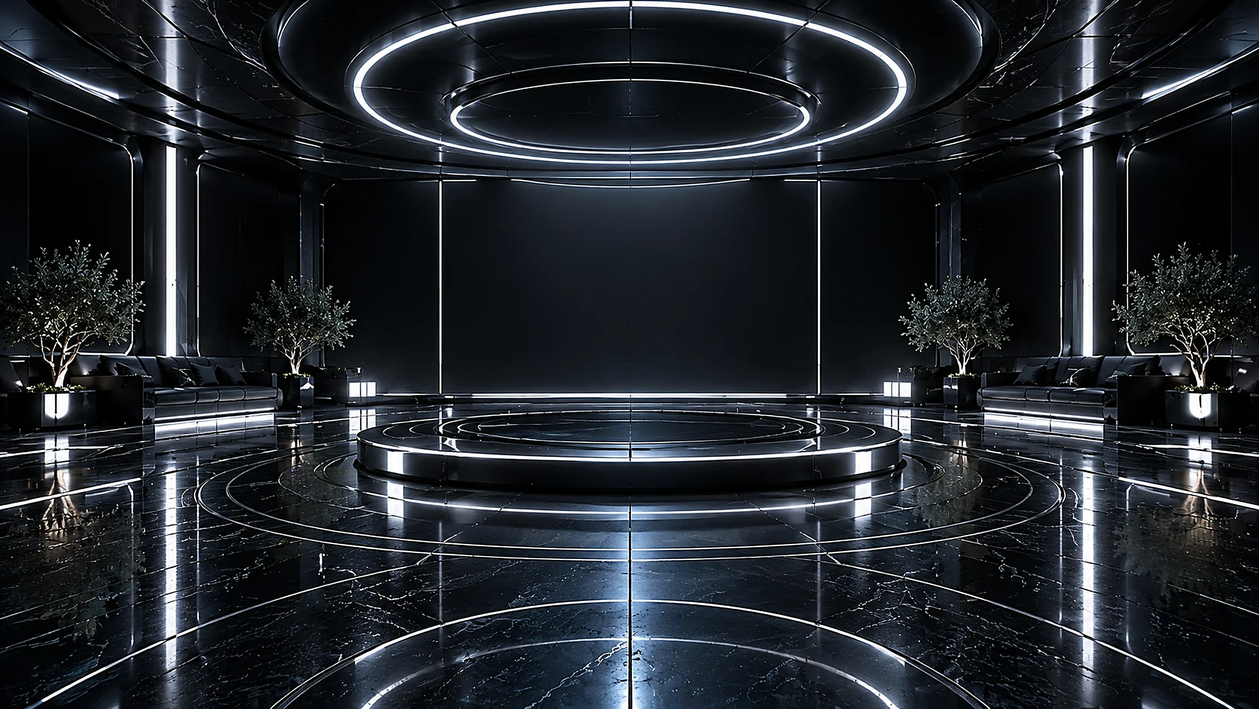
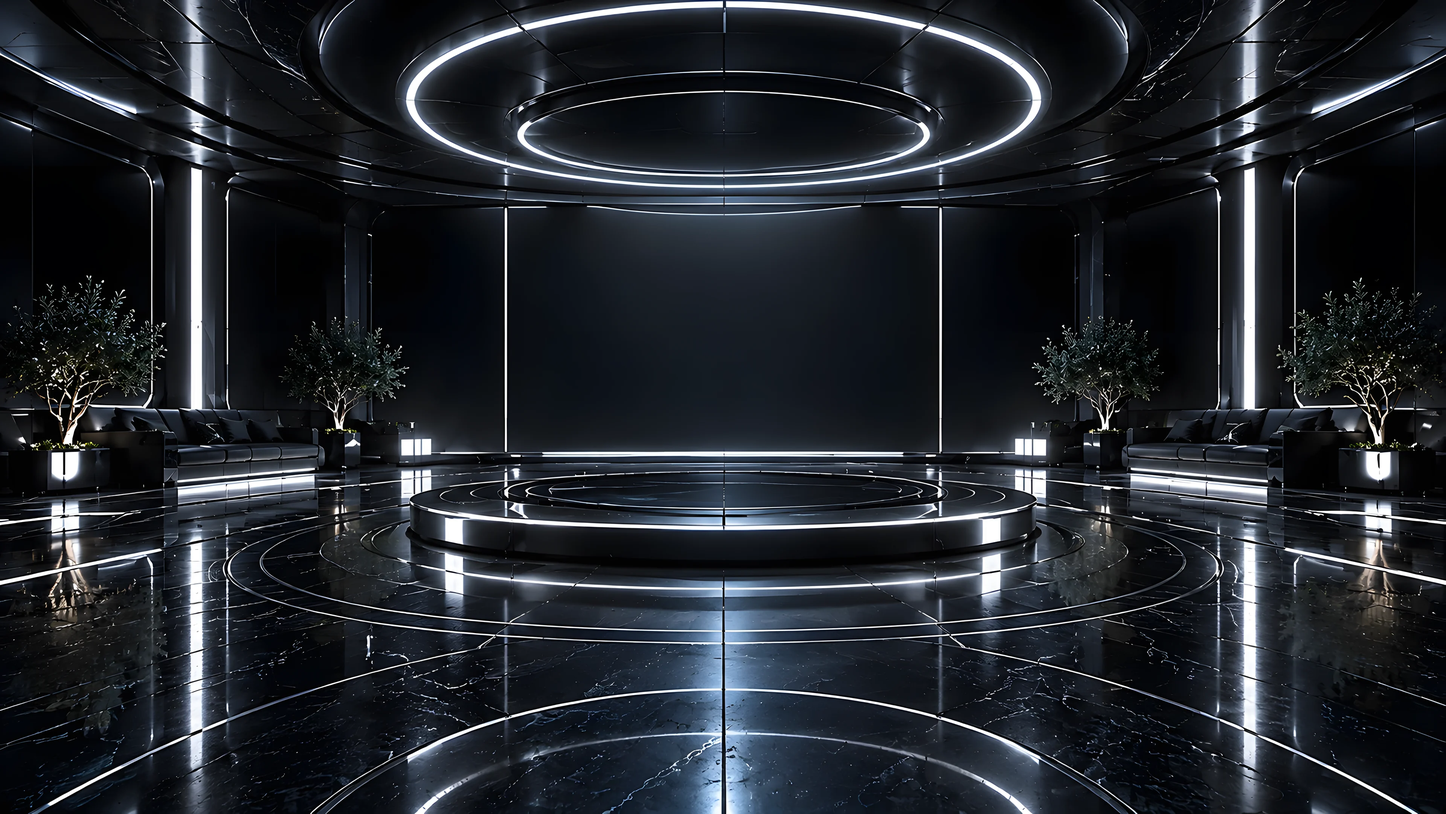
feat(dashboard): rooms in 4K -- Real-ESRGAN x4plus from the originals, scaled to 3840 wide

diff --git a/frontend/rooms/rooms.js b/frontend/rooms/rooms.js
@@ -9,28 +9,28 @@
 //   sheen   a slow band of light across the polished floor
 //   fall    a waterfall: white water streams slowly down
 window.AURON_ROOMS = {
-  lounge: { name: 'Lounge bei Nacht', src: 'lounge.webp', w: 1672, h: 941, ped: [0.501, 0.605, 0.335], zones: [
+  lounge: { name: 'Lounge bei Nacht', src: 'lounge.webp', w: 3840, h: 2161, ped: [0.501, 0.605, 0.335], zones: [
     ['water', 0.44, 0.457, 0.71, 0.537], ['city', 0.06, 0.38, 0.96, 0.505], ['clouds', 0.28, 0.20, 0.64, 0.33], ['clouds', 0.77, 0.20, 0.94, 0.32],
     ['stars', 0.06, 0.10, 0.96, 0.30],
     ['sway', 0.0, 0.35, 0.07, 0.49], ['sway', 0.93, 0.35, 0.99, 0.49], ['glow', 0, 0, 1, 1], ['sheen', 0, 0.56, 1, 1]] },
-  noir: { name: 'Noir', src: 'rooms/noir.webp', w: 3344, h: 1882, ped: [0.500, 0.608, 0.43], zones: [
+  noir: { name: 'Noir', src: 'rooms/noir.webp', w: 3840, h: 2161, ped: [0.500, 0.608, 0.43], zones: [
     ['sway', 0.00, 0.33, 0.12, 0.535], ['sway', 0.19, 0.39, 0.29, 0.515], ['sway', 0.71, 0.39, 0.81, 0.515], ['sway', 0.88, 0.33, 1.00, 0.535],
     ['glow', 0, 0, 1, 0.6], ['sheen', 0, 0.58, 1, 1]] },
-  gold: { name: 'Gold', src: 'rooms/gold.webp', w: 3344, h: 1882, ped: [0.500, 0.614, 0.395], zones: [
+  gold: { name: 'Gold', src: 'rooms/gold.webp', w: 3840, h: 2161, ped: [0.500, 0.614, 0.395], zones: [
     ['sway', 0.00, 0.36, 0.10, 0.545], ['sway', 0.20, 0.41, 0.30, 0.525], ['sway', 0.70, 0.41, 0.80, 0.525], ['sway', 0.89, 0.36, 1.00, 0.545],
     ['flicker', 0, 0, 1, 0.62], ['sheen', 0, 0.6, 1, 1]] },
-  orbit: { name: 'Orbit', src: 'rooms/orbit.webp', w: 4000, h: 2250, ped: [0.500, 0.752, 0.463], zones: [
+  orbit: { name: 'Orbit', src: 'rooms/orbit.webp', w: 3840, h: 2160, ped: [0.500, 0.752, 0.463], zones: [
     ['stars', 0.17, 0.12, 0.83, 0.66], ['glow', 0, 0, 1, 1]] },
-  alps: { name: 'Alpen bei Sonnenuntergang', src: 'rooms/alps.webp', w: 3344, h: 1882, ped: [0.500, 0.626, 0.40], zones: [
+  alps: { name: 'Alpen bei Sonnenuntergang', src: 'rooms/alps.webp', w: 3840, h: 2161, ped: [0.500, 0.626, 0.40], zones: [
     ['clouds', 0.27, 0.19, 0.73, 0.36], ['clouds', 0.03, 0.13, 0.21, 0.32], ['clouds', 0.80, 0.15, 0.97, 0.32], ['clouds', 0.37, 0.0, 0.63, 0.085],
     ['water', 0.40, 0.47, 0.77, 0.53], ['sun', 0.64, 0.36, 0.74, 0.47],
     ['sway', 0.00, 0.29, 0.13, 0.50], ['sway', 0.19, 0.39, 0.28, 0.48], ['sway', 0.72, 0.39, 0.81, 0.48], ['sway', 0.94, 0.33, 1.00, 0.50],
     ['sheen', 0, 0.6, 1, 1]] },
-  earth: { name: 'Über der Erde', src: 'rooms/earth.webp', w: 3344, h: 1882, ped: [0.500, 0.606, 0.43], zones: [
+  earth: { name: 'Über der Erde', src: 'rooms/earth.webp', w: 3840, h: 2161, ped: [0.500, 0.606, 0.43], zones: [
     ['stars', 0.28, 0.17, 0.72, 0.345], ['stars', 0.03, 0.12, 0.20, 0.30], ['stars', 0.79, 0.12, 0.97, 0.30],
     ['city', 0.28, 0.36, 0.72, 0.53], ['glow', 0, 0, 1, 1],
     ['sway', 0.00, 0.29, 0.10, 0.50], ['sway', 0.19, 0.40, 0.27, 0.49], ['sway', 0.70, 0.40, 0.78, 0.49], ['sway', 0.89, 0.29, 1.00, 0.50]] },
-  forest: { name: 'Wald mit Wasserfall', src: 'rooms/forest.webp', w: 3344, h: 1882, ped: [0.495, 0.611, 0.383], zones: [
+  forest: { name: 'Wald mit Wasserfall', src: 'rooms/forest.webp', w: 3840, h: 2161, ped: [0.495, 0.611, 0.383], zones: [
     ['fall', 0.528, 0.405, 0.58, 0.505], ['fall', 0.513, 0.365, 0.545, 0.40], ['fall', 0.172, 0.37, 0.192, 0.45],
     ['clouds', 0.50, 0.455, 0.64, 0.53], ['water', 0.36, 0.52, 0.66, 0.575], ['clouds', 0.36, 0.0, 0.66, 0.075], ['clouds', 0.36, 0.15, 0.66, 0.21],
     ['sun', 0.76, 0.2, 0.88, 0.36],
